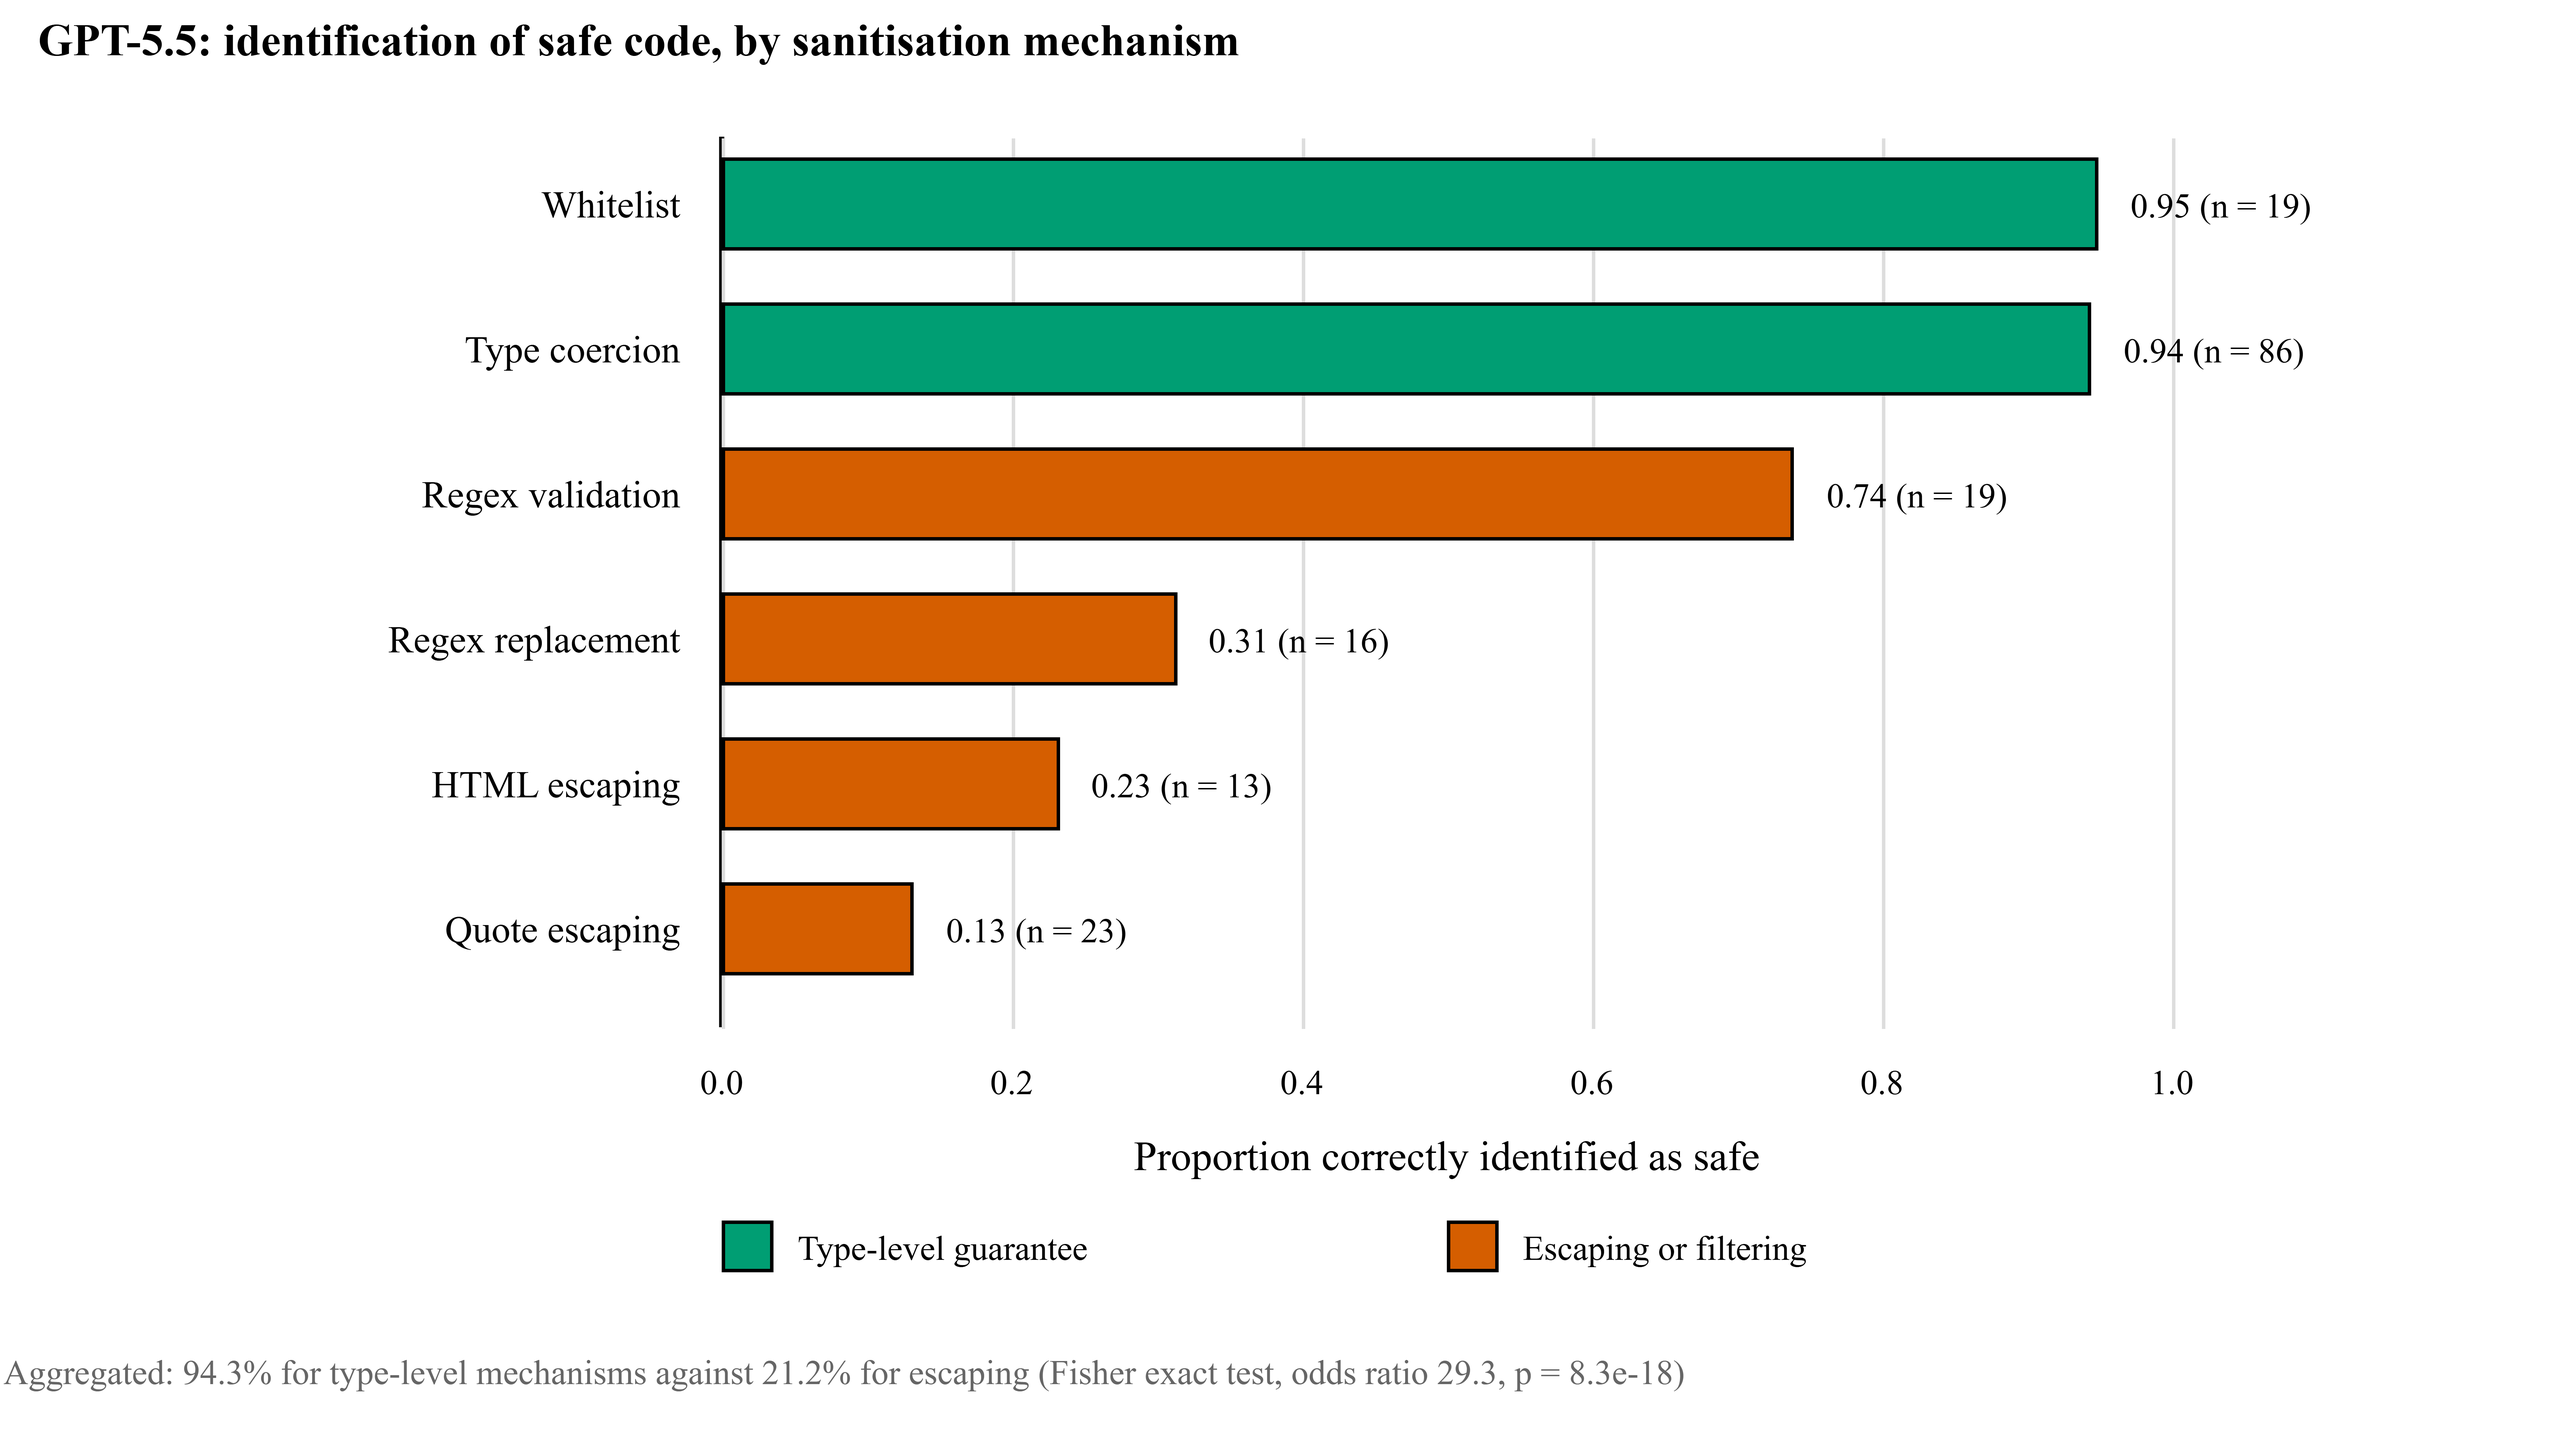
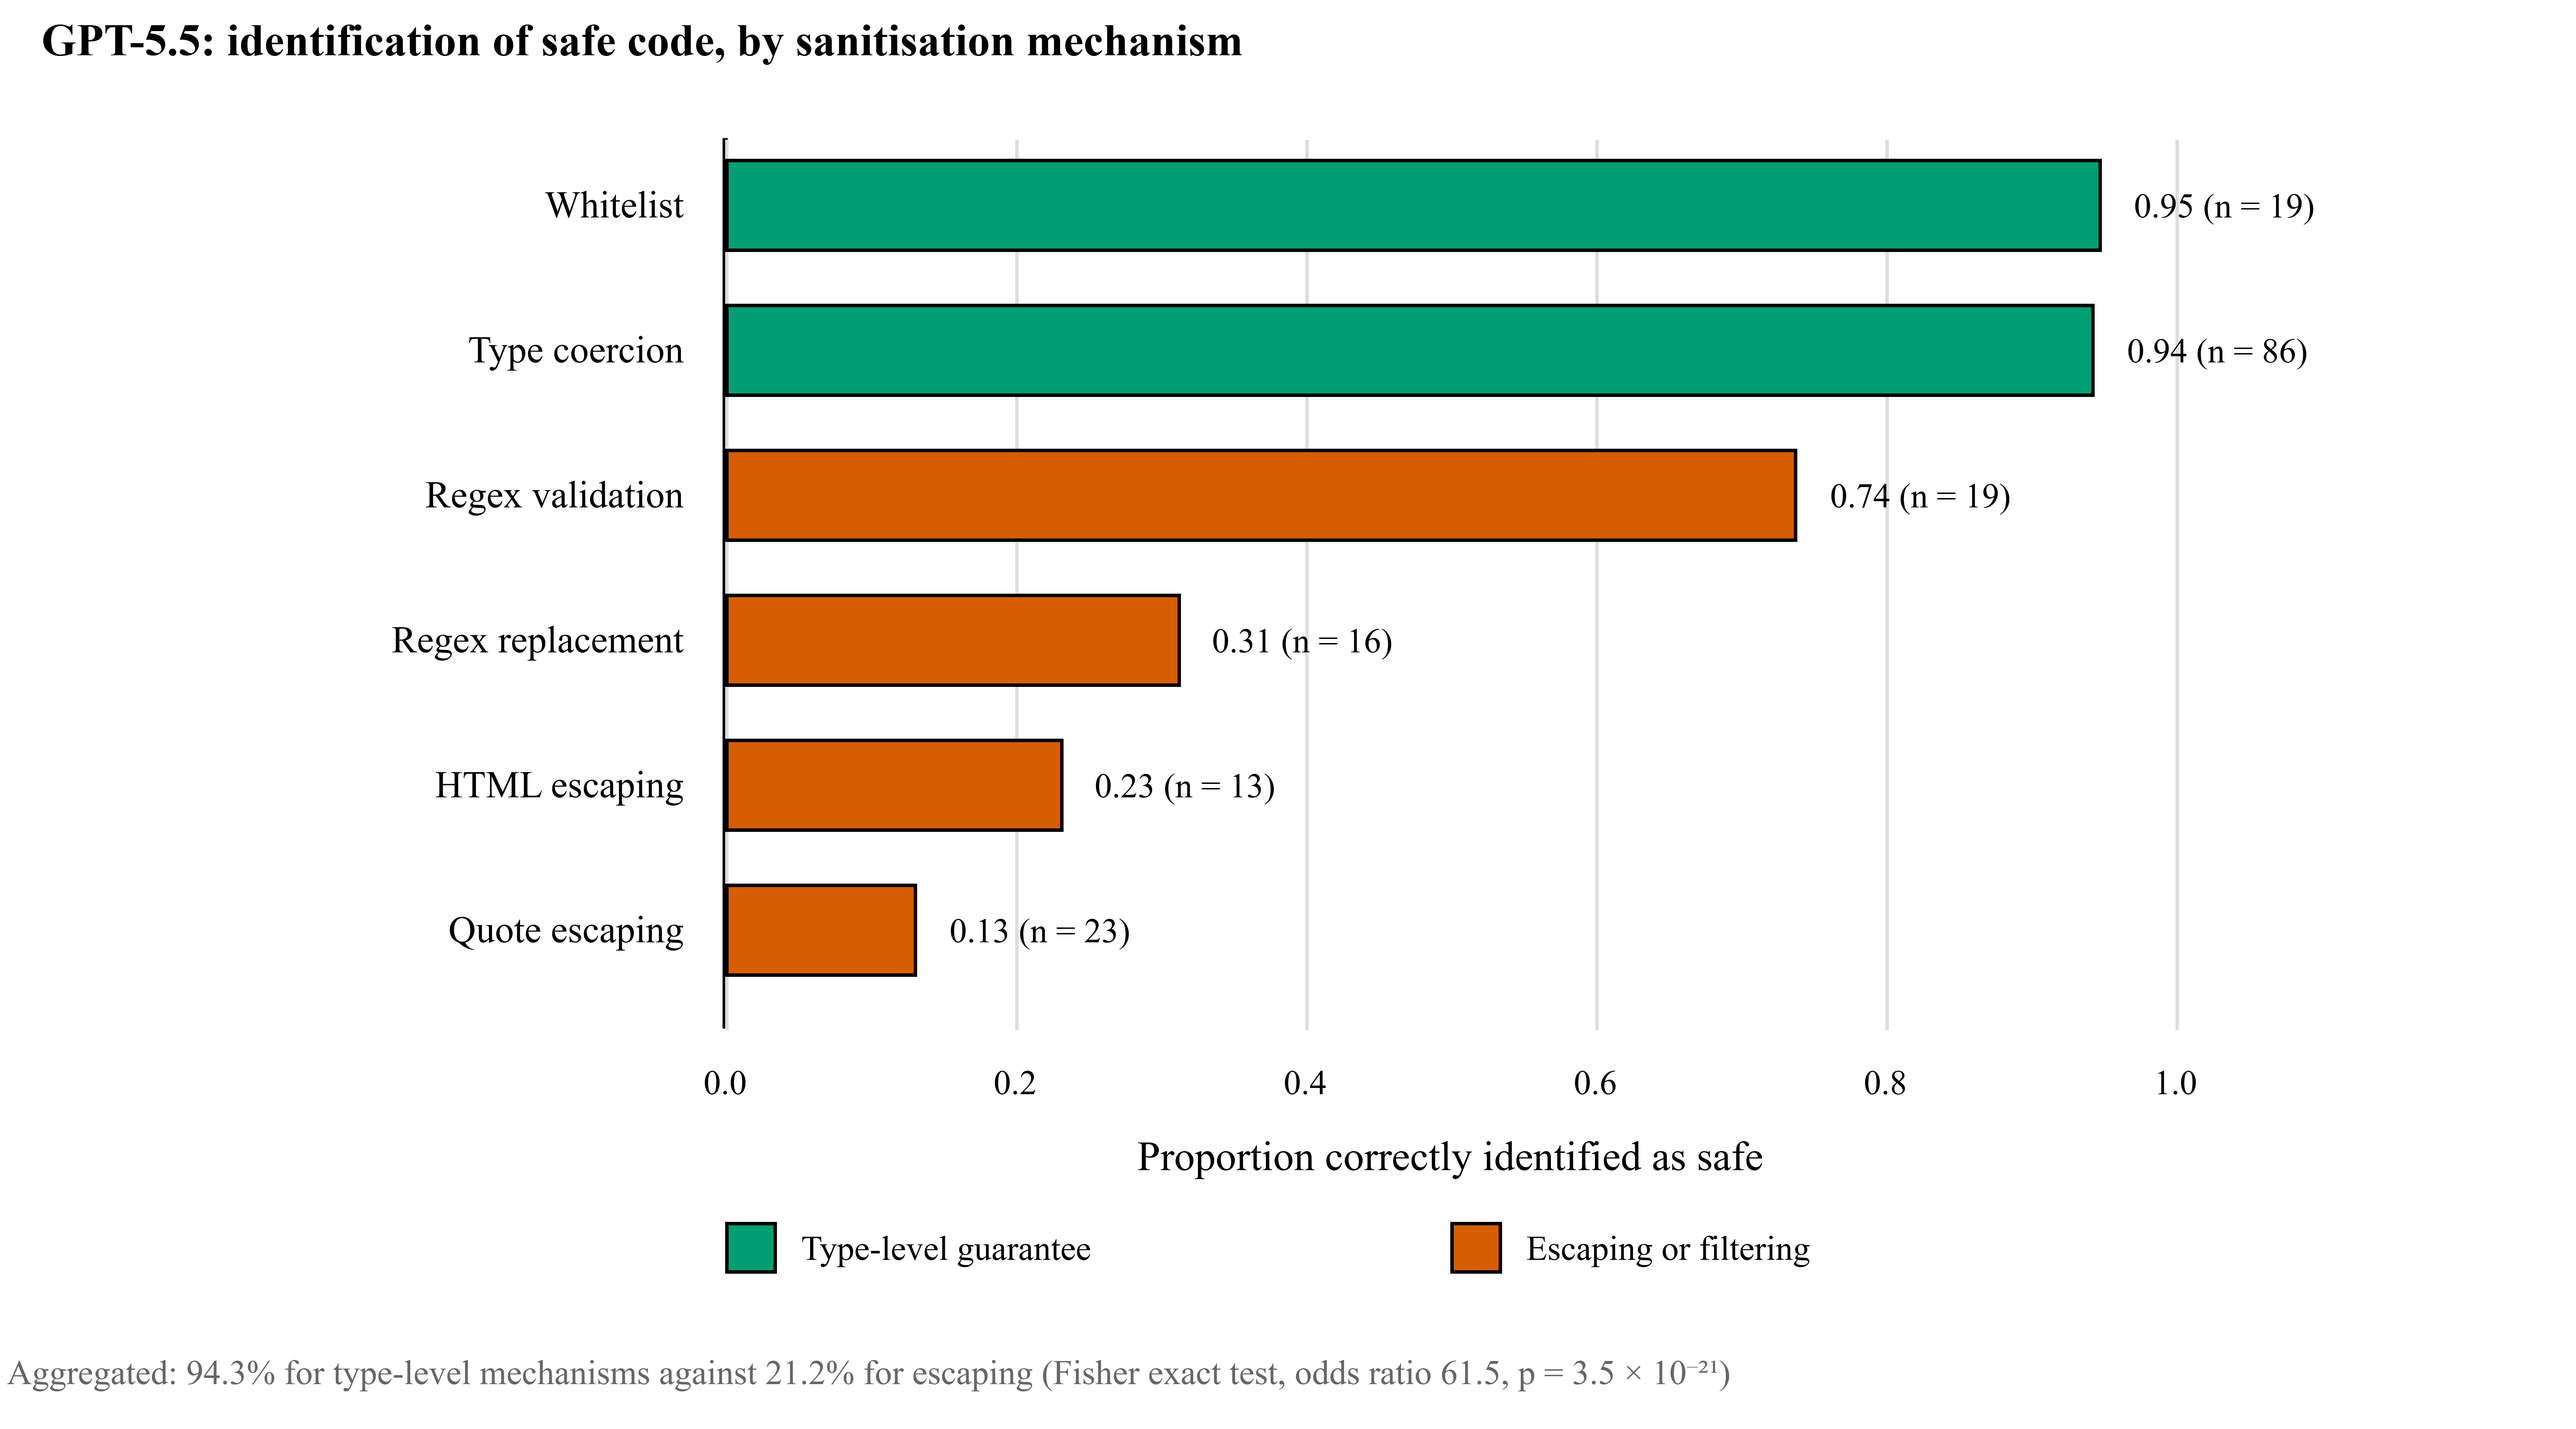
Add files via upload

diff --git a/figures/make_drawio.py b/figures/make_drawio.py
@@ -209,7 +209,7 @@ def figure2():
     c.append(text(X0 + 230, ly - 2, 200, 18, 'Escaping or filtering', 10, 'left'))
     c.append(text(X0 - 210, ly + 26, 640, 34,
                   'Aggregated: 94.3% for type-level mechanisms against 21.2% for '
-                  'escaping\n(Fisher exact test, odds ratio 29.3, p = 8.3e-18)',
+                  'escaping\n(Fisher exact test, odds ratio 61.5, p = 3.5 × 10⁻²¹)',
                   10, 'left', color='#666666'))
 
     (OUT / 'Figure2_sanitisation_mechanism.drawio').write_text(
